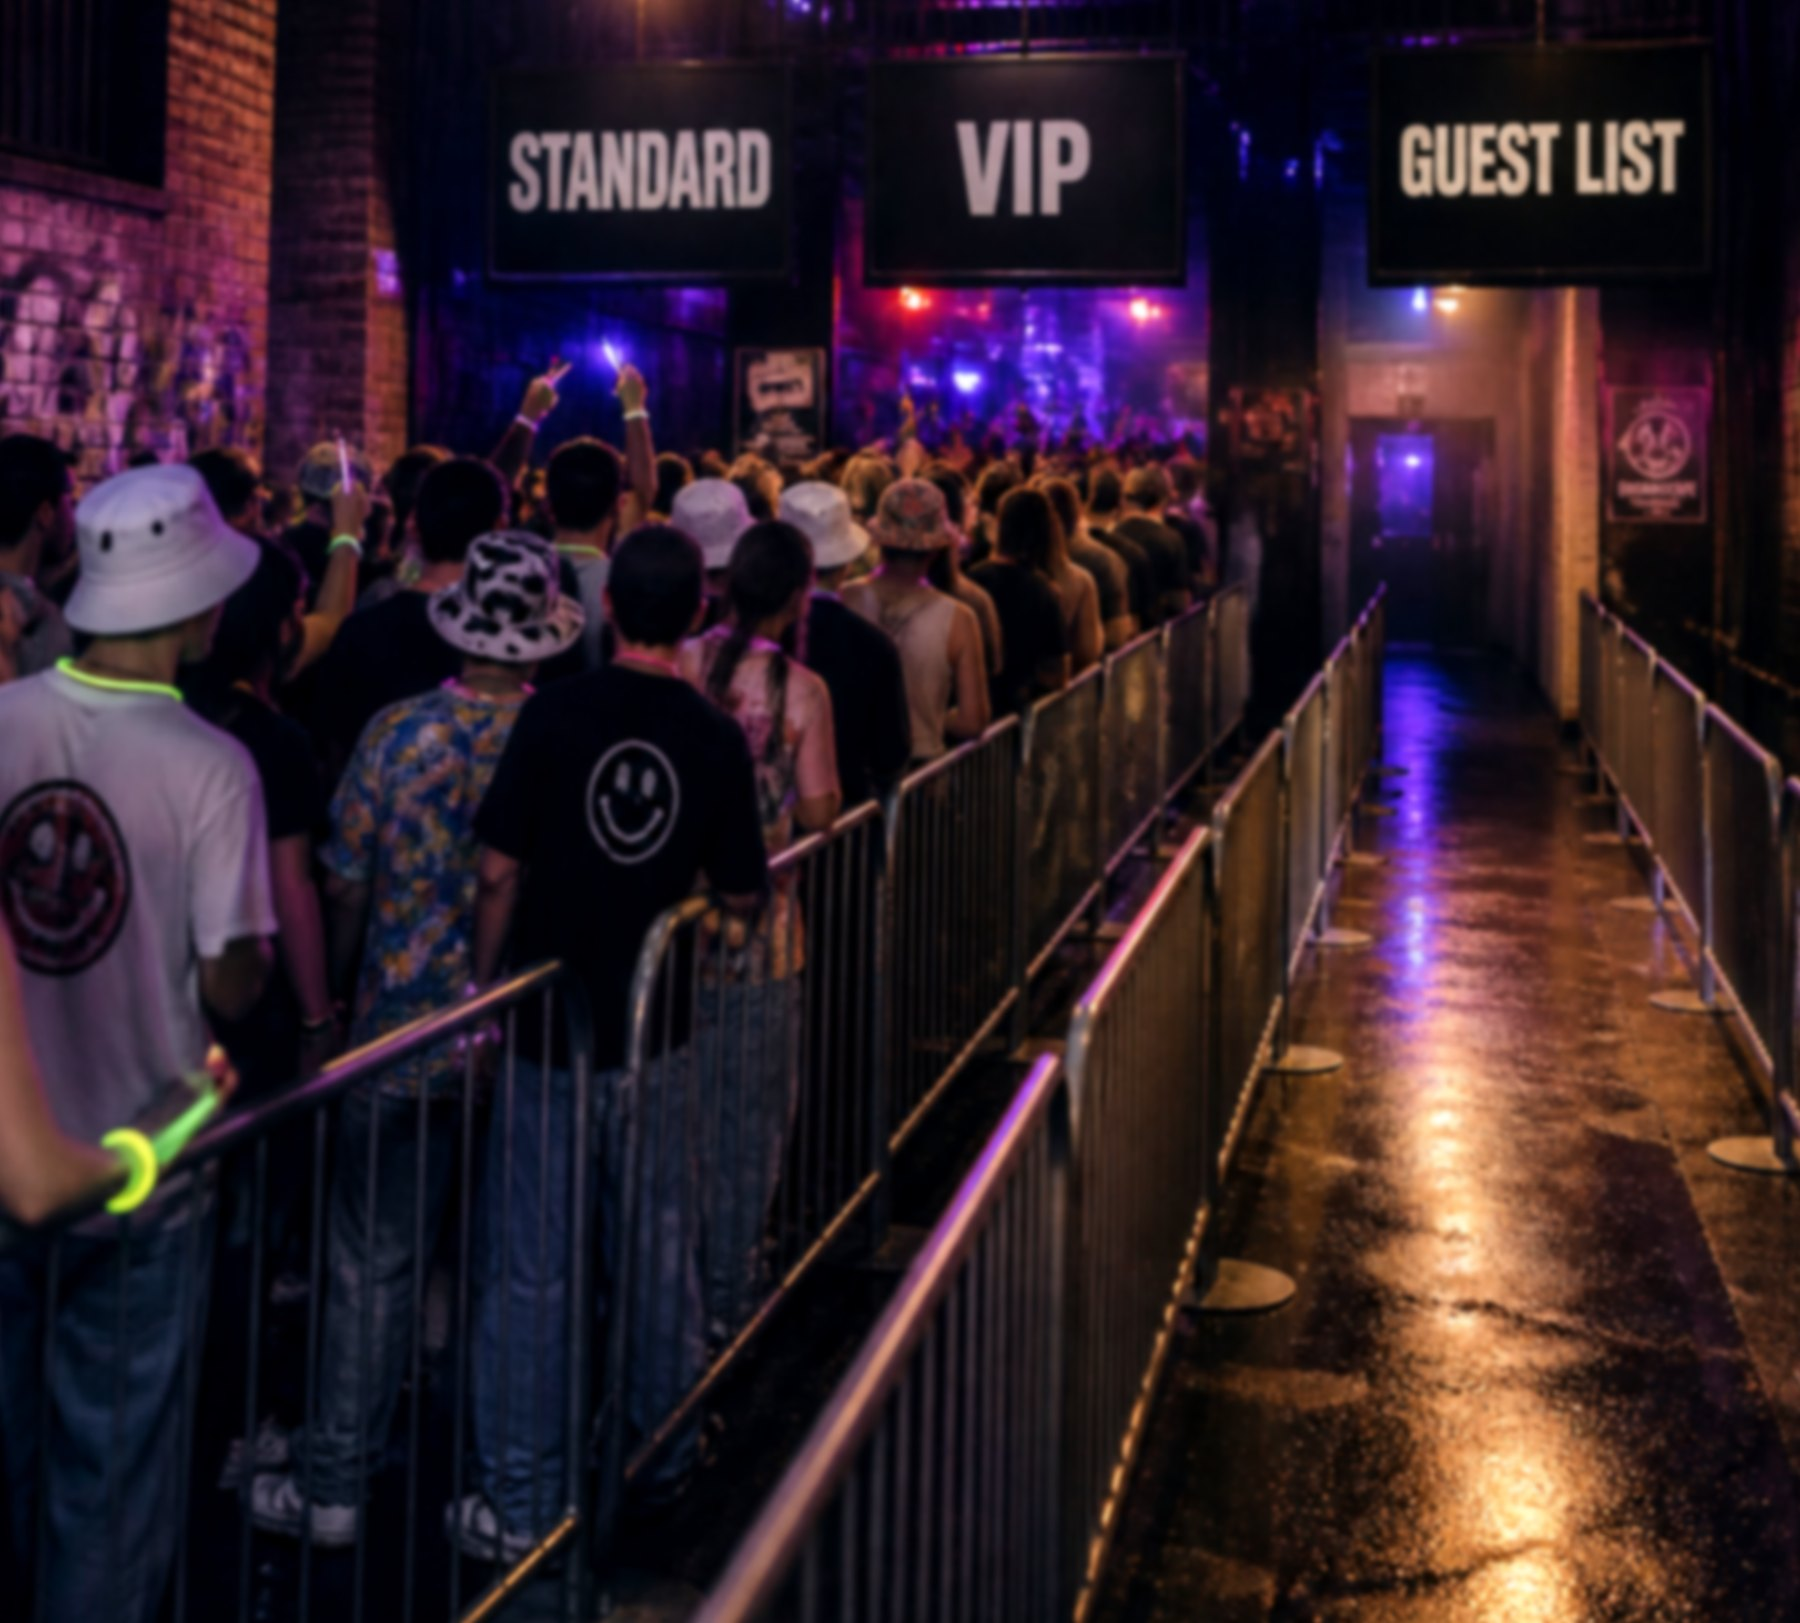
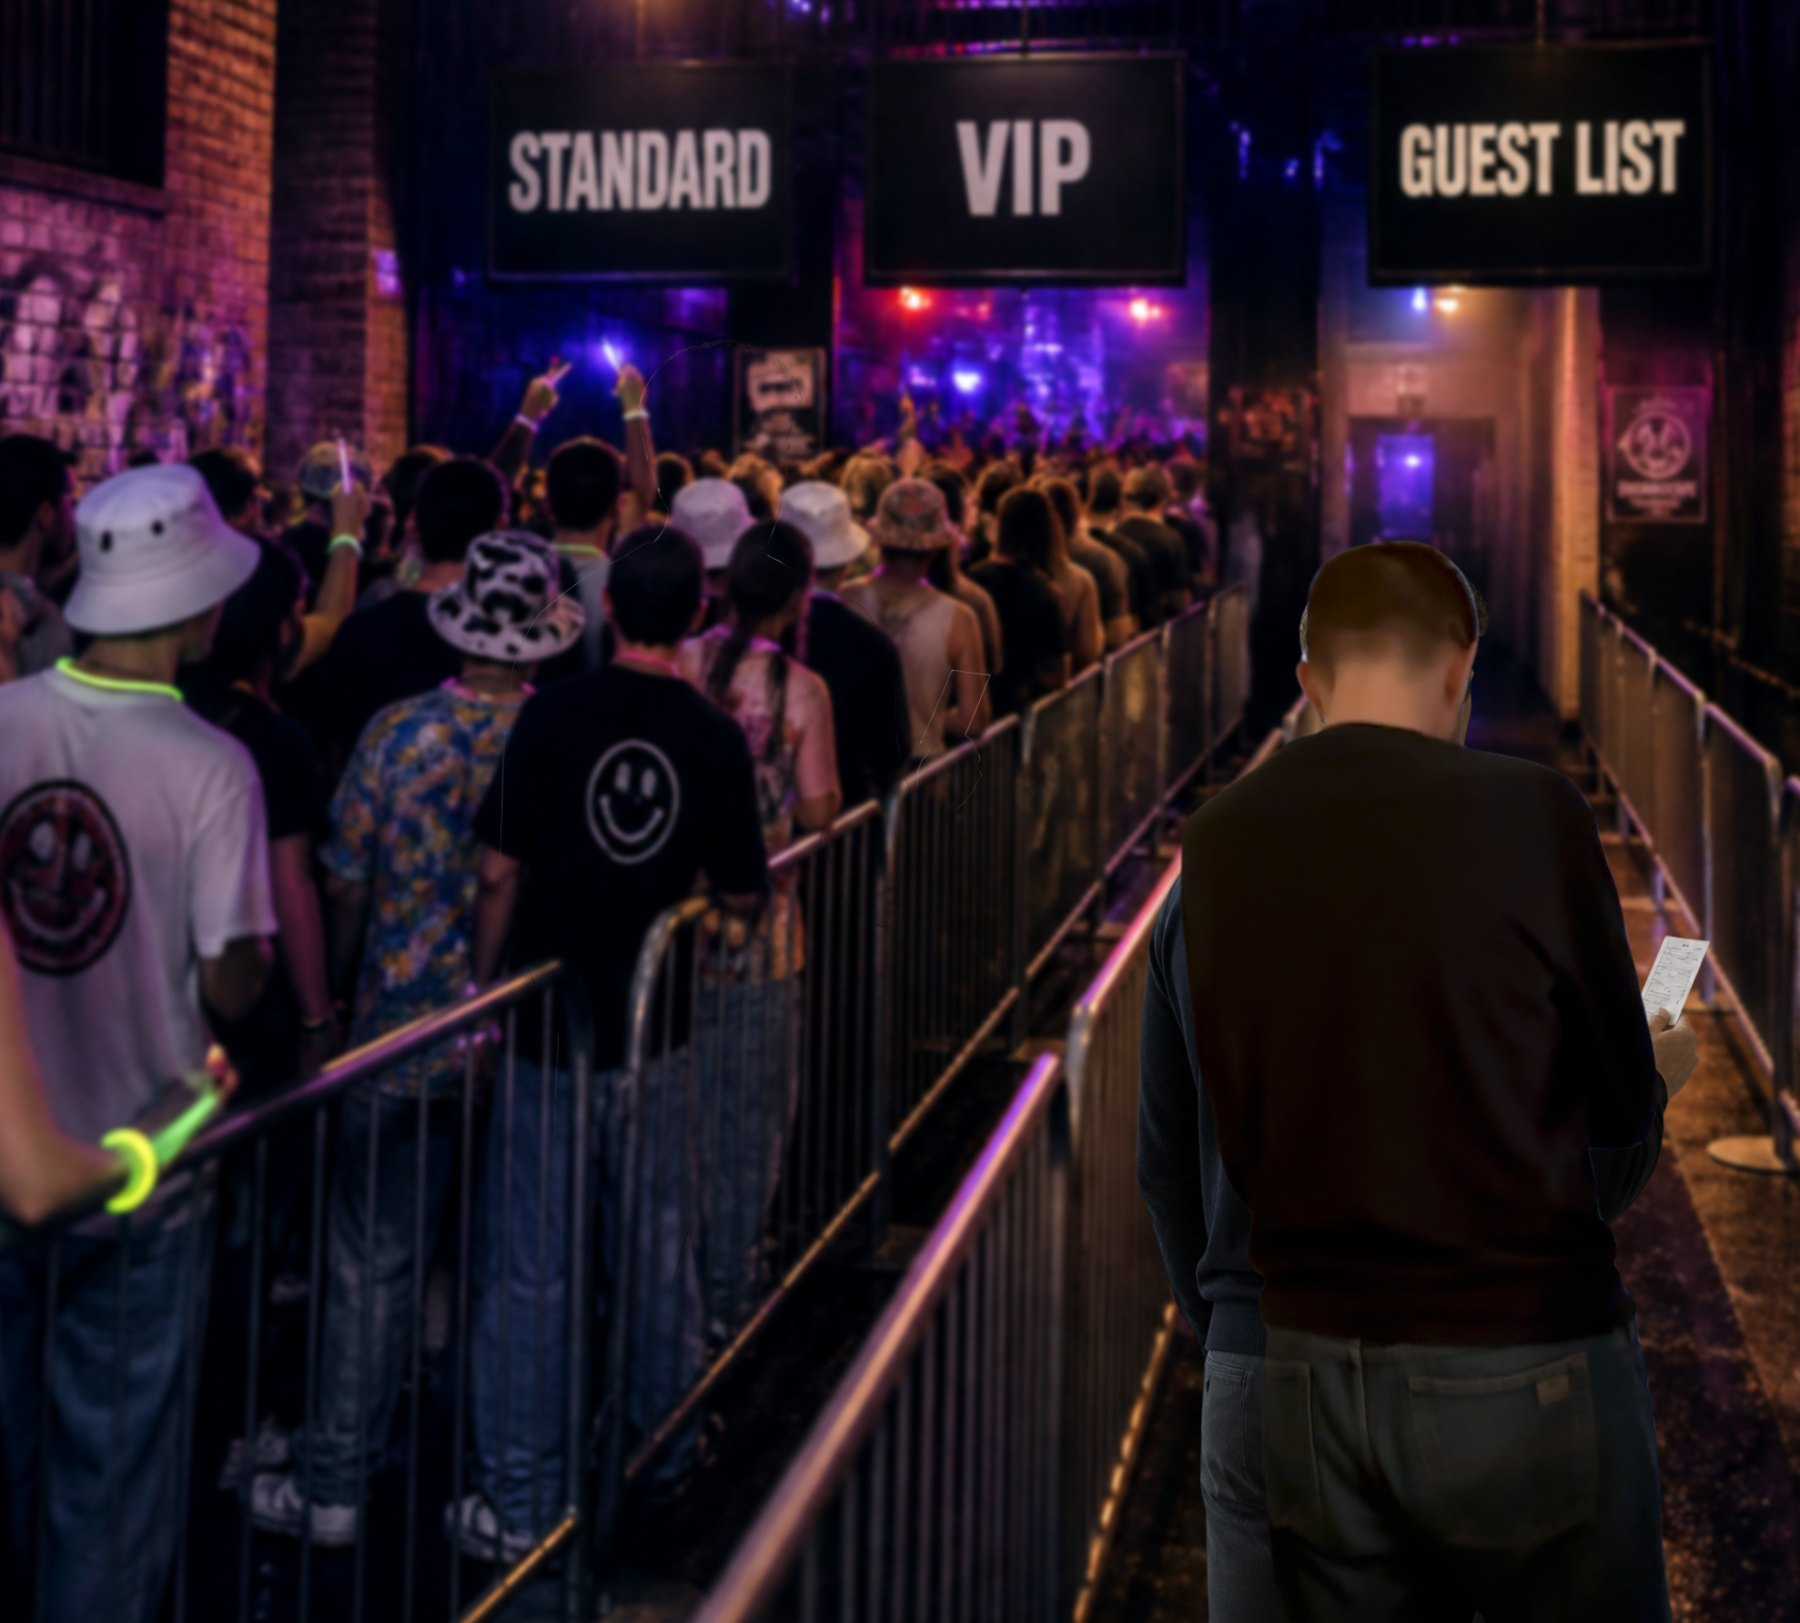
Pete himself in the Guest List lane with his ticket; tap the scene to go in
Claude-Session: https://claude.ai/code/session_011WgG3wQpJK1BDaagdrtdvx

Changed region(s): [[0.6222, 0.3081, 0.9644, 1.0]]

diff --git a/frontend/src/index.css b/frontend/src/index.css
@@ -626,3 +626,18 @@ body { background: #0a0a0c; }
 	.club-ticket .hint { left: 40%; right: 0; bottom: 210px; }
 }
 @media (prefers-reduced-motion: reduce) { .ticket { animation: none; } }
+
+/* Pete is in the picture holding his ticket: the whole scene is the tap target,
+   and the drawn ticket stays invisible until the card takes over */
+.club-ticket .ticket, .club-ticket .ticket:hover {
+	inset: 0 !important; top: 0 !important; left: 0 !important; bottom: 0 !important;
+	width: auto !important; height: auto !important; padding: 0 !important;
+	transform: none !important; animation: none !important;
+	opacity: 0 !important; box-shadow: none !important; border: 0 !important; background: transparent !important;
+}
+.club-ticket .ticket > * { visibility: hidden; }
+.hint { pointer-events: none; }
+.club-ticket .hint, .club-ticket .hint { left: 0 !important; right: 0 !important; bottom: 6% !important; font-size: 14px; }
+@media (orientation: landscape) and (min-width: 760px) {
+	.queue-msg { right: 42%; }
+}

diff --git a/frontend/src/App.jsx b/frontend/src/App.jsx
@@ -260,7 +260,7 @@ function PeteIntro({ onOpen, onDone }) {
     setTimeout(onDone, 800)
   }
 
-  const hint = stage === 'ticket' ? 'tap your ticket'
+  const hint = stage === 'ticket' ? 'tap to show your ticket at the door'
       : stage === 'displayed' ? 'Skip the queue, access the club 🔊' : ''
 
   return (
